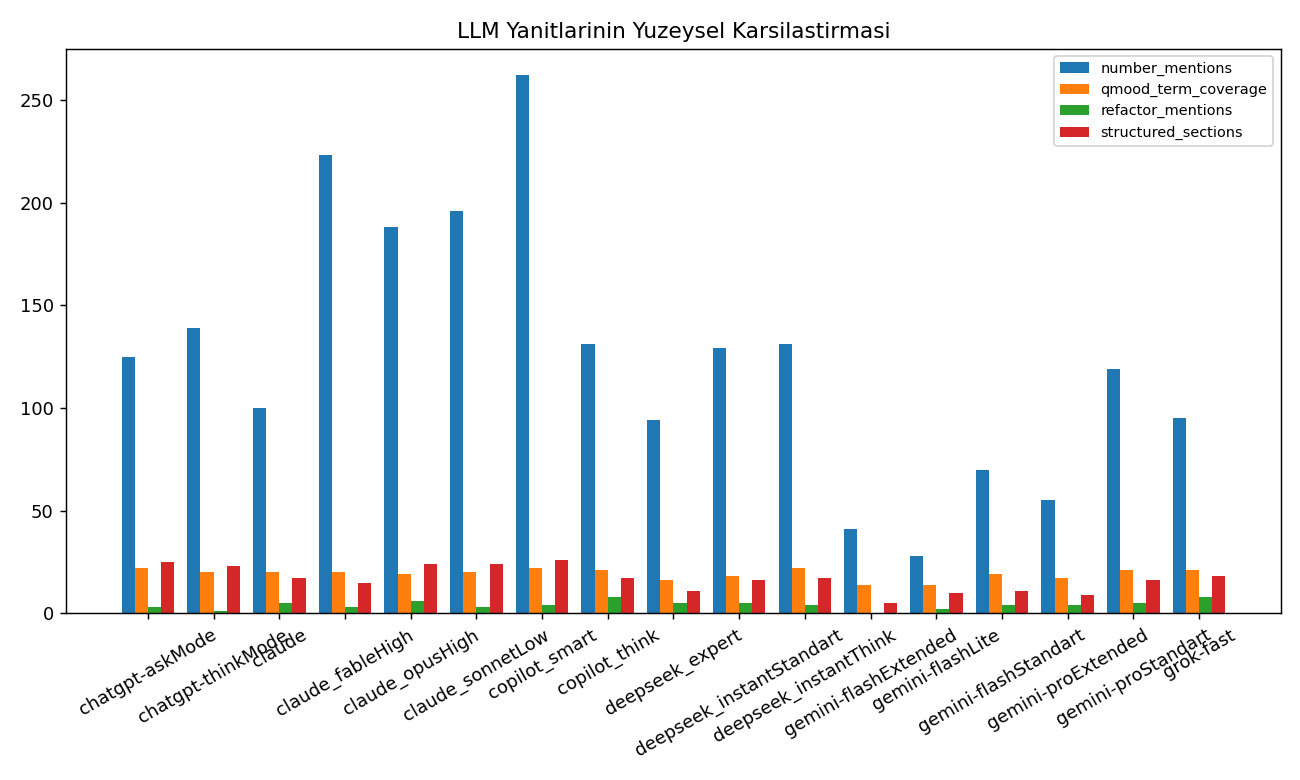
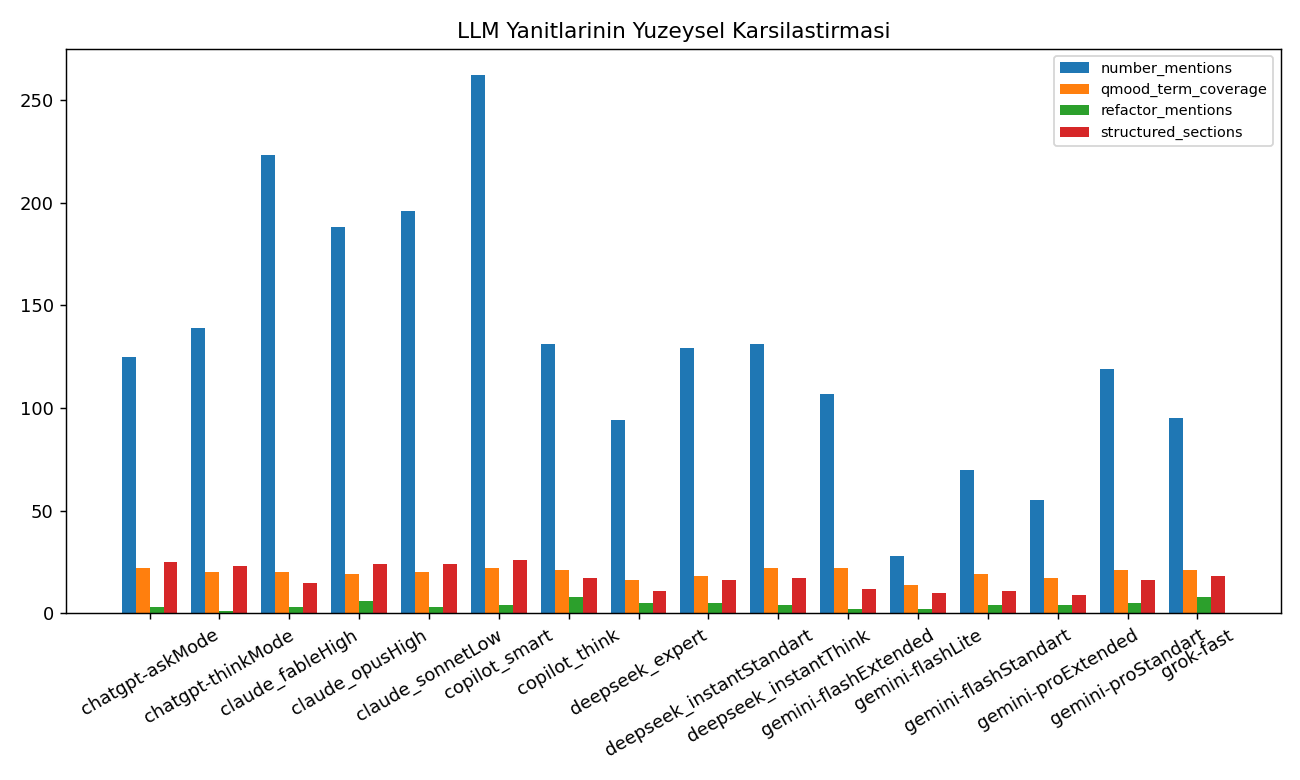
llm_responses senkron + yeniden uretilen yanitlarla puanlama guncellemesi
- gemini-flashExtended ve gemini-proExtended tam yanitlarla yeniden puanlandi
- flashExtended 15->30 (bol1-4 guclu); siralama + grafikler guncellendi
- bulgu rafine: belirleyici Pro/Flash kademesi degil reasoning/extended modu
- gecici dosyalar (2.md, gemini-code-*.md) temizlendi; nihai set 16 model
- tum belge/sunumda model sayisi 16'ya guncellendi

Changed region(s): [[0.0615, 0.0923, 0.9538, 0.9846]]

diff --git a/src/build_pptx.js b/src/build_pptx.js
@@ -78,7 +78,7 @@ s.addText([
   { text: "Analiz edilen sistem:  ", options: { color: ICE } },
   { text: "jsoup (Java HTML Parser) — 11 sürüm (1.14.1 → 1.22.2)", options: { color: WHITE, bold: true } },
 ], { x: 0.8, y: 4.1, w: 11.4, h: 0.5, fontFace: BF, fontSize: 17, margin: 0 });
-s.addText("17 LLM yapılandırması  ·  kendi yazdığımız metrik çıkarıcı  ·  6 kalite niteliği", { x: 0.8, y: 4.7, w: 11.4, h: 0.4, fontFace: BF, fontSize: 14, color: ICE, italic: true, margin: 0 });
+s.addText("16 LLM yapılandırması  ·  kendi yazdığımız metrik çıkarıcı  ·  6 kalite niteliği", { x: 0.8, y: 4.7, w: 11.4, h: 0.4, fontFace: BF, fontSize: 14, color: ICE, italic: true, margin: 0 });
 s.addText("Grup: Murat Özdemir (255129022) · Mustafa Can Bozbuğa (255129050) · Ahmet Ateş (255129005)      Tarih: 2026-06-10", { x: 0.8, y: 6.4, w: 11.9, h: 0.4, fontFace: BF, fontSize: 12, color: ICE, margin: 0 });
 
 /* ---------------- 2. AMAÇ & KAPSAM ---------------- */
@@ -203,7 +203,7 @@ s.addTable([
 s = pres.addSlide();
 s.background = { color: NAVY };
 s.addText("LLM DESTEKLİ DEĞERLENDİRME", { x: 0.8, y: 1.3, w: 11, h: 0.4, fontFace: BF, fontSize: 14, color: ICE, bold: true, charSpacing: 2, margin: 0 });
-s.addText("17 LLM Yapılandırması, Tek Ortak Prompt", { x: 0.8, y: 1.75, w: 11.7, h: 0.9, fontFace: HF, fontSize: 32, color: WHITE, bold: true, margin: 0 });
+s.addText("16 LLM Yapılandırması, Tek Ortak Prompt", { x: 0.8, y: 1.75, w: 11.7, h: 0.9, fontFace: HF, fontSize: 32, color: WHITE, bold: true, margin: 0 });
 const prov = [["ChatGPT", "Ask, Think"], ["Claude", "Opus, Fable, Sonnet"], ["Copilot", "Smart, Think"], ["DeepSeek", "Expert, Inst-Std, Inst-Think"], ["Gemini", "Pro x2, Flash x3"], ["Grok", "Fast"]];
 prov.forEach((p, i) => {
   const x = 0.8 + (i % 3) * 4.0, y = 3.0 + Math.floor(i / 3) * 1.7;
@@ -223,18 +223,18 @@ s.addText([
 ], { x: 8.8, y: 2.3, w: 4.0, h: 2.4, fontFace: BF, fontSize: 12.5, valign: "top", lineSpacingMultiple: 1.15, margin: 0 });
 s.addText([
   { text: "Lider: claude_opusHigh (40/40)\n", options: { bold: true, color: GOOD, breakLine: true } },
-  { text: "En zayıf grup: Gemini Flash kademesi", options: { bold: true, color: BAD } },
+  { text: "En zayıf: Gemini Flash-Lite (18) / Standard (23)", options: { bold: true, color: BAD } },
 ], { x: 8.8, y: 5.1, w: 4.0, h: 1.0, fontFace: BF, fontSize: 14, valign: "top", margin: 0 });
 
 /* ---------------- 12. LLM BULGULAR ---------------- */
 s = pres.addSlide();
 header(s, "LLM Karşılaştırma", "Eleştirel Bulgular");
 const finds = [
-  ["Uzlaşı yüksek", "17 modelin tamamı 'dış kalite artıyor, iç kalite geriliyor' anlatısında birleşti — bizim analizimizle örtüşüyor.", GOOD],
+  ["Uzlaşı yüksek", "16 modelin tamamı 'dış kalite artıyor, iç kalite geriliyor' anlatısında birleşti — bizim analizimizle örtüşüyor.", GOOD],
   ["Metrik halüsinasyonu YOK", "Hiçbir model sayısal değer uydurmadı (sayısal-kanıt kuralının başarısı).", GOOD],
   ["Sınıf adı halüsinasyonu", "Bazı modeller toplu veriden türetilemeyecek sınıf adlarını (Parser, Element...) refactoring hedefi gösterdi.", BAD],
   ["Ayırt edici: DSC-artefakt", "En güçlü yanıt, Reusability +%27'nin tamamının boyut kaynaklı olduğunu sayısal ayrıştırdı (kalite bileşeni 1.969→1.958).", NAVY],
-  ["Kademe > sağlayıcı", "Üst kademe reasoning modları belirgin derin; aynı ailede Flash << Pro.", NAVY],
+  ["Belirleyici: çalıştırma modu", "Reasoning/extended modu kademeden önemli: Gemini Flash-Extended (30) Pro'lara yaklaştı, Flash-Lite (18) en zayıf.", NAVY],
 ];
 let fy = 1.75;
 finds.forEach(([h, t, c]) => {

diff --git a/src/llm_quality_scores.py b/src/llm_quality_scores.py
@@ -1,7 +1,7 @@
 """
 llm_quality_scores.py
 ---------------------
-17 LLM yanitinin ELESTIREL (niteliksel) degerlendirmesi. Yanitlarin tamami
+16 LLM yanitinin ELESTIREL (niteliksel) degerlendirmesi. Yanitlarin tamami
 yazarlar tarafindan okunup 8 kriterde 1-5 olceginde puanlanmistir. Bu puanlar
 otomatik degil, INSAN denetimiyle verilmistir (yonerge: "LLM ciktilari elestirel
 biçimde degerlendirilmelidir"). Bu betik puanlari belgeler, bir CSV ve isi
@@ -38,8 +38,7 @@ CRITERIA = ["SayisalKanit", "DenklemDogrulugu", "DSC_Artefakt",
             "ZamansalGranulerlik", "HalusinasyonDirenci", "RefactoringSomut",
             "SinirlamaFarkindal", "AnalitikDerinlik"]
 
-# model -> 8 kriter puani (1-5). claude.md (metodoloji tohumu) haric tutuldu;
-# Claude modeli kullanicinin topladigi opus/fable/sonnet dosyalariyla temsil ediliyor.
+# model -> 8 kriter puani (1-5). Claude ailesi opus/fable/sonnet ile temsil ediliyor.
 SCORES = {
     "claude_opusHigh":          [5, 5, 5, 5, 5, 5, 5, 5],
     "claude_fableHigh":         [5, 5, 5, 4, 5, 4, 4, 5],
@@ -56,7 +55,7 @@ SCORES = {
     "deepseek_expert":          [3, 4, 3, 2, 4, 4, 2, 3],
     "gemini-flashStandart":     [3, 3, 3, 2, 3, 4, 2, 3],
     "gemini-flashLite":         [2, 3, 2, 1, 3, 3, 2, 2],
-    "gemini-flashExtended":     [2, 3, 2, 1, 3, 1, 1, 2],  # yanit yarida kesik
+    "gemini-flashExtended":     [5, 5, 4, 2, 5, 4, 2, 3],  # yeniden uretildi: bol1-4 guclu, bol5 kesik
 }
 
 

diff --git a/report/llm_karsilastirma.md b/report/llm_karsilastirma.md
@@ -1,13 +1,13 @@
 # LLM Kalite Değerlendirmelerinin Karşılaştırmalı ve Eleştirel Analizi
 
-> Aynı ana prompt (`prompts/01_full_evolution_prompt.txt`) **17 farklı LLM
+> Aynı ana prompt (`prompts/01_full_evolution_prompt.txt`) **16 farklı LLM
 > yapılandırmasına** aynı koşulda verilmiştir. Bu belge yanıtların eleştirel
 > karşılaştırmasını içerir. Puanlama rubriği ve ham puanlar:
 > `src/llm_quality_scores.py`, `data/llm_qualitative_scores.csv`.
 > Görseller: `figures/fig_llm_qualitative.png`, `fig_llm_ranking.png`,
 > `fig_llm_comparison.png`.
 
-## 1. Test edilen modeller (17 yapılandırma)
+## 1. Test edilen modeller (16 yapılandırma)
 | Sağlayıcı | Yapılandırmalar |
 |---|---|
 | OpenAI ChatGPT | GPT-5.5 *Ask*, *Think* |
@@ -17,9 +17,7 @@
 | Google Gemini | *Pro-Standard*, *Pro-Extended*, *Flash-Standard*, *Flash-Lite*, *Flash-Extended* |
 | xAI Grok | *Fast* |
 
-> `llm_responses/claude.md` metodoloji **tohum** örneğidir; rekabetçi sıralamaya
-> dahil edilmemiştir (Claude, kullanıcının topladığı Opus/Fable/Sonnet
-> dosyalarıyla temsil edilir).
+> Claude ailesi, toplanan üç mod (Opus/Fable/Sonnet) ile temsil edilmektedir.
 
 ## 2. Değerlendirme rubriği (8 kriter, 1–5)
 1. **Sayısal Kanıt** — her iddianın metrik + yüzde ile desteklenmesi
@@ -44,24 +42,26 @@
 | 5 | claude_sonnetLow | 31 | 3.88 |
 | 5 | gemini-proStandart | 31 | 3.88 |
 | 7 | copilot_think | 30 | 3.75 |
-| 8 | gemini-proExtended † | 28 | 3.50 |
-| 9 | grok-fast | 27 | 3.38 |
-| 9 | deepseek_instantThink | 27 | 3.38 |
-| 11 | deepseek_instantStandart | 26 | 3.25 |
-| 11 | chatgpt-askMode | 26 | 3.25 |
-| 13 | deepseek_expert | 25 | 3.12 |
-| 14 | gemini-flashStandart | 23 | 2.88 |
-| 15 | gemini-flashLite | 18 | 2.25 |
-| 16 | gemini-flashExtended ‡ | 15 | 1.88 |
+| 7 | gemini-flashExtended † | 30 | 3.75 |
+| 9 | gemini-proExtended ‡ | 28 | 3.50 |
+| 10 | grok-fast | 27 | 3.38 |
+| 10 | deepseek_instantThink | 27 | 3.38 |
+| 12 | deepseek_instantStandart | 26 | 3.25 |
+| 12 | chatgpt-askMode | 26 | 3.25 |
+| 14 | deepseek_expert | 25 | 3.12 |
+| 15 | gemini-flashStandart | 23 | 2.88 |
+| 16 | gemini-flashLite | 18 | 2.25 |
 
-† `gemini-proExtended` yeniden üretildi (ilk çalıştırma eksikti); tam yanıtla
-DSC-artefaktını ve denklem yorumunu doğru yaptı, ancak sınıf adı (Parser/Document)
-uydurdu ve sınırlama bölümü yok. ‡ `gemini-flashExtended` yanıtı yarıda kesik.
+† `gemini-flashExtended` yeniden üretildi: bölüm 1–4 güçlü (zengin sayısal kanıt
+— RFC/NOA/CIS dahil —, DSC-artefaktını yakaladı, sınıf adı **uydurmadı**), yalnızca
+bölüm 5 yarıda kesik. ‡ `gemini-proExtended` de yeniden üretildi (ilk çalıştırma
+eksikti); DSC-artefaktını ve denklemi doğru yaptı ama sınıf adı (Parser/Document)
+uydurdu ve sınırlama bölümü yok.
 
 ## 4. Bulgular (eleştirel)
 
 ### 4.1 Hiçbir model metrik UYDURMADI — ama bazıları SINIF uydurdu
-Olumlu ortak nokta: 17 yanıtın **hiçbiri** sayısal metrik değeri halüsine
+Olumlu ortak nokta: 16 yanıtın **hiçbiri** sayısal metrik değeri halüsine
 etmedi; verilen tabloya sadık kaldılar. Bu, "sayısal kanıt zorunluluğu"
 prompt kuralının işe yaradığını gösterir.
 
@@ -115,22 +115,34 @@ gelir — yani hata değil, **hangi tabloya tutundukları** sonucu değiştirdi.
 veri sunum biçiminin LLM çıkarımını yönlendirdiğini gösteren önemli bir
 meta-bulgudur (prompt mühendisliği dersi).
 
-### 4.7 Sağlayıcı/kademe etkisi
-- **Üst kademe akıl yürütme modları** (Claude Opus/Fable High, ChatGPT Think,
-  Copilot Smart) belirgin biçimde daha derin ve daha az halüsinasyonlu.
-- **Gemini Flash kademesi** en zayıf grup: kısa, yüzeysel, biri
-  (`flashExtended`) **yanıtı yarıda kesti** (yapılandırma/uzunluk sınırı). Aynı
-  ailenin **Pro** sürümleri belirgin biçimde daha iyi → kademe seçimi, sağlayıcı
-  seçiminden daha belirleyici olabiliyor.
+### 4.7 Belirleyici olan: model "kademesi" değil, çalıştırma MODU
+İlk bakışta "üst kademe model daha iyi" denebilir; ancak veri daha incedir.
+Asıl belirleyici, **akıl yürütme / uzun düşünme (reasoning/extended) modunun**
+açık olması:
+- Her ailede reasoning/extended yapılandırması, temel/lite yapılandırmayı geçti:
+  ChatGPT *Think* (34) > *Ask* (26); Claude *High* modları (40/37) tepe;
+  Copilot *Smart/Think* (33/30) üst sıralar; DeepSeek *Instant-Think* ≥ diğerleri.
+- **En çarpıcı kanıt Gemini ailesi içinde:** `Flash-Extended` (30) güçlü çıkıp
+  Pro sürümlerine yaklaşırken, `Flash-Lite` (18) ve `Flash-Standard` (23) en
+  zayıf ikiliyi oluşturdu. Yani **aynı "Flash kademesi" içinde** extended modu
+  ile lite/standart modu arasında 12 puanlık uçurum var.
+- Çıkarım: kalite farkı sağlayıcı veya Pro/Flash etiketinden çok, **modelin akıl
+  yürütmeye ne kadar "bütçe" ayırdığından** geliyor. Pratik öneri: metrik yorumu
+  için **mutlaka reasoning/extended modu** seçilmeli.
+- Not: en zayıf iki yanıt (Flash-Lite, Flash-Standard) hâlâ doğru çekirdek
+  anlatıyı verdi — yani basit modlar bile "kaba" sonucu buluyor; üst modların
+  katkısı **derinlik, halüsinasyondan kaçınma ve nüans**ta.
 
 ## 5. Genel sonuç
-17 modelin **niteliksel uzlaşısı yüksekti**: hepsi "fonksiyonel/yeniden
+16 modelin **niteliksel uzlaşısı yüksekti**: hepsi "fonksiyonel/yeniden
 kullanılabilirlik dış kalitesi artarken iç kalite (cohesion/kapsülleme/
 anlaşılabilirlik) geriliyor; kontrollü teknik borç" çekirdek anlatısında
 birleşti — ve bu, bizim metrik analizimizle (§5–6) **örtüşüyor**. Ayrışma
 **derinlikte** oldu: DSC-artefaktını sayısal ayrıştırma, zamansal kırılmaları
-görme, halüsinasyondan kaçınma ve sınırlamaları kabul etme eksenlerinde üst
-kademe akıl yürütme modelleri öne çıktı. Pratik çıkarım: **metrik yorumu için
-LLM kullanılacaksa, üst kademe "reasoning" modu seçilmeli ve çıktı sınıf düzeyi
-veriyle çapraz doğrulanmalıdır** (aksi halde makul ama desteksiz sınıf-düzeyi
-iddialar sızıyor).
+görme, halüsinasyondan kaçınma ve sınırlamaları kabul etme eksenlerinde
+**akıl yürütme/uzun düşünme (reasoning/extended) modları** öne çıktı — bu fark,
+model "kademesinden" (Pro/Flash) çok modun kendisinden geliyor (§4.7: aynı Flash
+ailesinde Extended 30, Lite 18). Pratik çıkarım: **metrik yorumu için LLM
+kullanılacaksa reasoning/extended modu seçilmeli ve çıktı sınıf düzeyi veriyle
+çapraz doğrulanmalıdır** (aksi halde makul ama desteksiz sınıf-düzeyi iddialar
+sızıyor).

diff --git a/report/teknik_rapor.md b/report/teknik_rapor.md
@@ -172,7 +172,7 @@ Buna **DAM −%8.0** (kapsülleme gevşemesi), **DCC/CBO +%4.0** (coupling artı
 (değişimler %4–18 bandında, ani sıçrama yok) → kontrollü/kademeli birikim.
 
 ### 6.3 LLM değerlendirmelerinin karşılaştırması
-Ana prompt (`prompts/01_full_evolution_prompt.txt`) **17 farklı LLM
+Ana prompt (`prompts/01_full_evolution_prompt.txt`) **16 farklı LLM
 yapılandırmasına** (ChatGPT-2, Claude-3, Copilot-2, DeepSeek-3, Gemini-5,
 Grok-1) **aynı koşulda** verildi. Yanıtlar `llm_responses/` altında. İki
 düzeyde karşılaştırma yapıldı: (i) otomatik yüzeysel ölçüm
@@ -182,7 +182,7 @@ düzeyde karşılaştırma yapıldı: (i) otomatik yüzeysel ölçüm
 `data/llm_qualitative_scores.csv`, `figures/fig_llm_qualitative.png`,
 `fig_llm_ranking.png`). Detaylı analiz: **`report/llm_karsilastirma.md`**.
 
-**Niteliksel uzlaşı yüksek:** 17 modelin tamamı "dış kalite (Reusability/
+**Niteliksel uzlaşı yüksek:** 16 modelin tamamı "dış kalite (Reusability/
 Functionality) artarken iç kalite (cohesion/kapsülleme/anlaşılabilirlik)
 geriliyor — kontrollü teknik borç" çekirdek anlatısında birleşti; bu, bizim
 metrik analizimizle (§5–6) örtüşür. **Hiçbir model metrik değeri uydurmadı**
@@ -198,9 +198,12 @@ metrik analizimizle (§5–6) örtüşür. **Hiçbir model metrik değeri uydurm
   refactoring hedefi olarak isimlendirdi (desteksiz spesifiklik).
 - Şüpheli öneriler: bazı modeller polimorfizmi (NOP) düşürmeyi önerdi — QMOOD'da
   NOP üç niteliği pozitif beslediğinden bu genelde yanlış tavsiyedir.
-- **Kademe etkisi sağlayıcıdan baskın:** üst kademe "reasoning" modları (Claude
-  High, ChatGPT/Copilot Think/Smart, Gemini Pro) belirgin biçimde daha derin;
-  Gemini Flash kademesi en zayıf grup (biri yanıtı yarıda kesti).
+- **Belirleyici, model kademesi değil çalıştırma modu:** her ailede akıl yürütme/
+  uzun düşünme (reasoning/extended) modu temel modu geçti (ChatGPT Think 34 > Ask
+  26; Claude High modları tepe). En çarpıcı kanıt Gemini içinde: `Flash-Extended`
+  (30) Pro'lara yaklaşırken `Flash-Lite` (18) ve `Flash-Standard` (23) en zayıf
+  ikili — yani aynı "Flash" kademesinde modlar arası 12 puan fark. Kalite,
+  Pro/Flash etiketinden çok modelin akıl yürütmeye ayırdığı bütçeyle ilişkili.
 
 **Meta-bulgu (prompt mühendisliği):** Modeller `+%27` (ham) ile `+%9.25`
 (normalize) yüzdeleri arasında, hangi tablomuza tutunduklarına göre çatallandı —